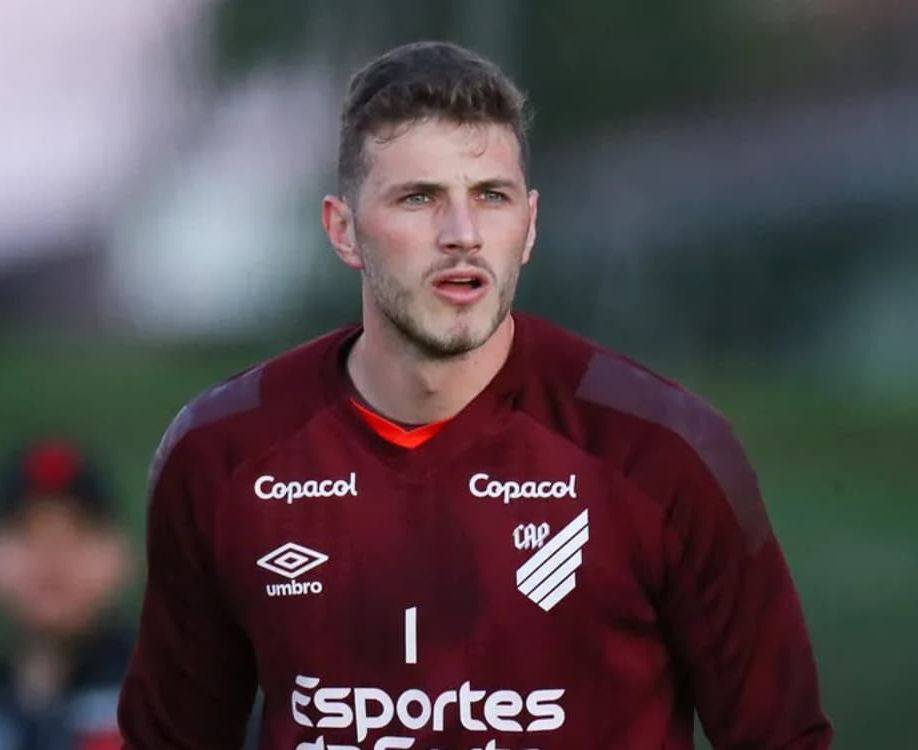
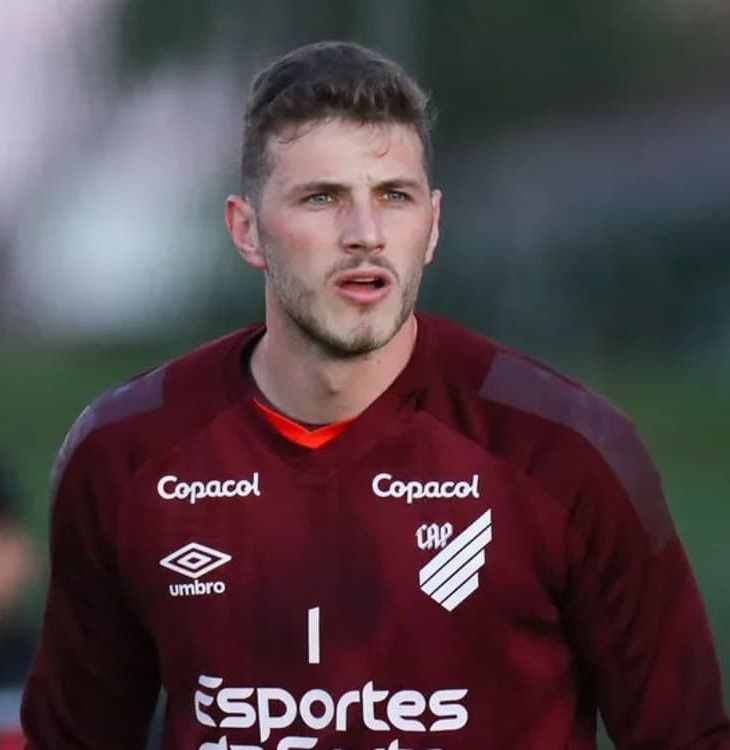
atualização do CSS e imagens

diff --git a/static/styles.css b/static/styles.css
@@ -41,14 +41,14 @@ nav li {
 
 nav img {
     width: 30px;
-    height: auto;
-    border-radius: 50%;
+    height: 20px;
+    border-radius: 10%;
     border: 2px solid #fff;
     box-shadow: 0 2px 4px rgba(0,0,0,0.1);
 }
 
 .container {
-    max-width: 1200px;
+    max-width: 1500px;
     margin: 20px auto;
     padding: 20px;
     display: flex;
@@ -57,12 +57,12 @@ nav img {
 }
 
 .sticker {
-    width: 28%;
+    width: 200px;
+    height: 300px;
     margin-bottom: 20px;
-    padding: 10px;
+    padding: 12px;
     background-color: #fff;
-    border: 2px solid #4caf50;
-    box-shadow: 0 2px 4px rgba(0,0,0,0.1);
+    box-shadow: 0 2px 4px rgba(0, 0, 0, 0.61);
     text-align: center;
     border-radius: 10px;
     position: relative;
@@ -70,30 +70,21 @@ nav img {
 }
 
 .sticker img {
-    max-width: 100%;
-    height: auto;
-    border-radius: 10px;
+    width: 200px;
+    height: 300px;
+    display: block;
+    margin: 0 auto;
+    object-fit: cover;
 }
 
 .sticker p {
     margin-top: 10px;
-    font-weight: bold;
-    color: #4caf50;
+    font-weight: bolder;
+    font-size: larger;
+    color: #418d43;
     position: absolute;
     bottom: 10px;
     width: 100%;
     background: rgba(255, 255, 255, 0.7);
-    padding: 5px;
-}
-
-@media (max-width: 768px) {
-    .sticker {
-        width: 45%;
-    }
-}
-
-@media (max-width: 480px) {
-    .sticker {
-        width: 100%;
-    }
+    padding: 4px;
 }

diff --git a/templates/index.html b/templates/index.html
@@ -36,7 +36,7 @@
             <div class="sticker">
                 <img src="{{ url_for('static', filename=figurinha.image_path) }}" alt="{{ figurinha.name }}">
                 <p>{{ figurinha.name }}</p>
-                <p>{{ figurinha.posicao }}</p>
+                <!-- <p class="{{ figurinha.posicao }}">{{ figurinha.posicao }}</p> --> 
             </div>
             {% endfor %}
         </div>
